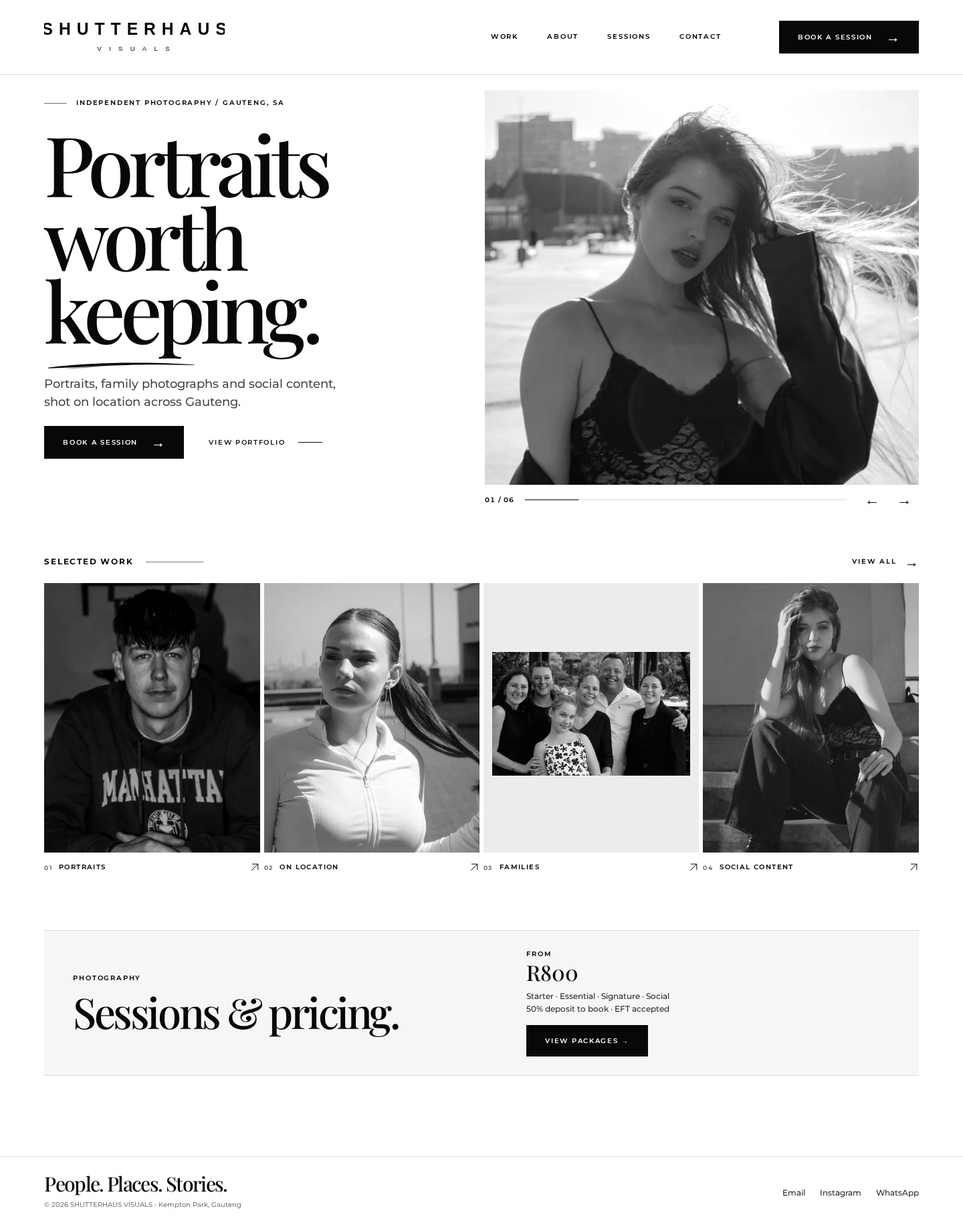
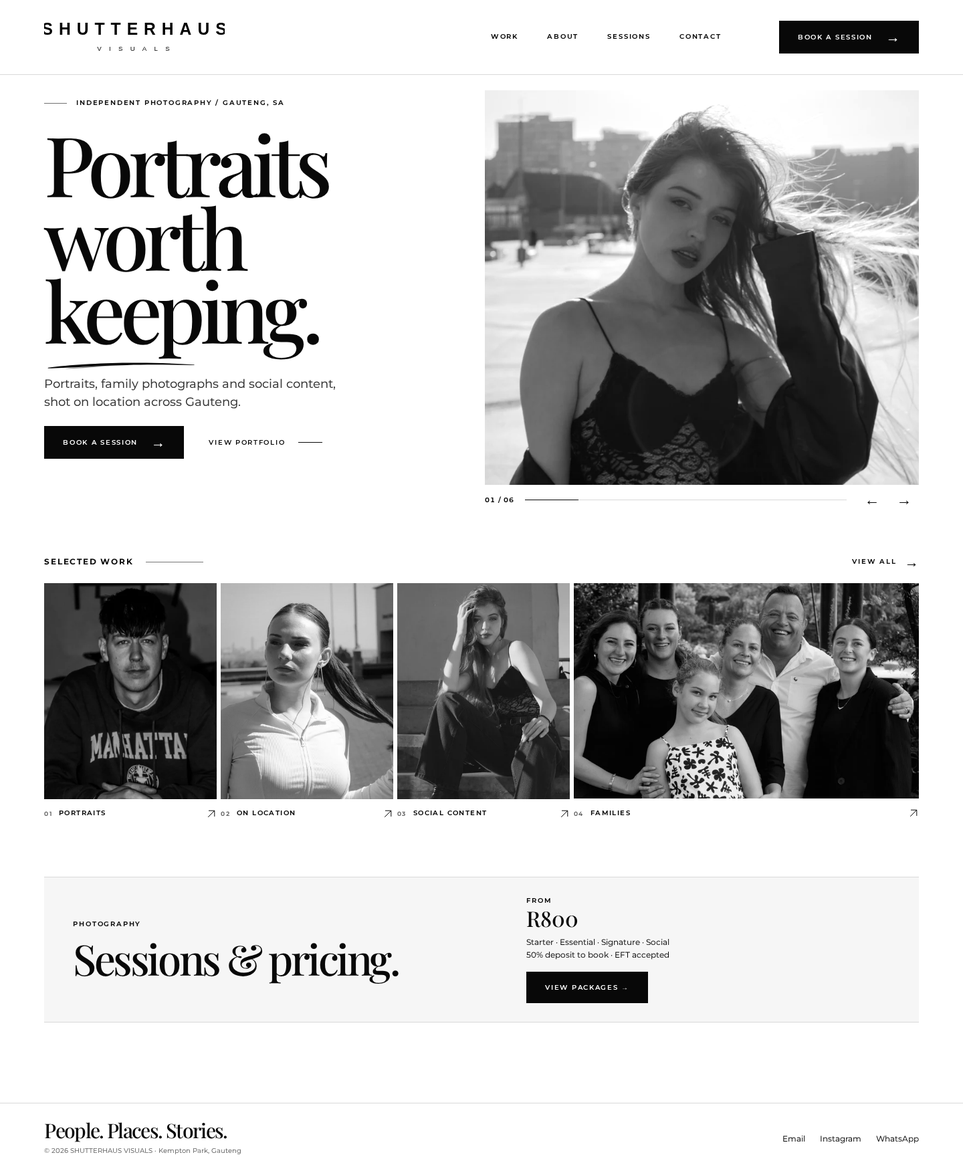
Finish Selected Work with the full family photograph and add the Landscapes collection

diff --git a/portfolio.html b/portfolio.html
@@ -194,18 +194,21 @@
       <p class="phead__p">Portraits, families and creative work, photographed on location across Gauteng.</p>
     </header>
     <nav class="work-index" aria-label="Browse work by collection"><a class="work-tile" data-collection="portraits" href="./portfolio.html?collection=portraits#edit-portraits" style="--focal:50% 2.5%">
-      <figure class="work-tile__photo"><picture><source type="image/webp" srcset="gallery/5-img-0086-400w.webp 400w, gallery/5-img-0086-560w.webp 560w, gallery/5-img-0086-800w.webp 800w, gallery/5-img-0086-1200w.webp 1200w, gallery/5-img-0086-1600w.webp 1600w" sizes="(max-width: 759px) 46vw, (max-width: 1536px) 24vw, 350px" />
-        <source type="image/jpeg" srcset="gallery/5-img-0086-400w.jpg 400w, gallery/5-img-0086-560w.jpg 560w, gallery/5-img-0086-800w.jpg 800w, gallery/5-img-0086-1200w.jpg 1200w, gallery/5-img-0086-1600w.jpg 1600w" sizes="(max-width: 759px) 46vw, (max-width: 1536px) 24vw, 350px" /><img src="gallery/5-img-0086-1600w.webp" alt="A seated man in a Manhattan sweatshirt looks into the camera, hands clasped" width="1600" height="2400" loading="eager" decoding="async" /></picture></figure>
+      <figure class="work-tile__photo"><picture><source type="image/webp" srcset="gallery/5-img-0086-400w.webp 400w, gallery/5-img-0086-560w.webp 560w, gallery/5-img-0086-800w.webp 800w, gallery/5-img-0086-1200w.webp 1200w, gallery/5-img-0086-1600w.webp 1600w" sizes="(max-width: 759px) 46vw, (max-width: 1536px) 20vw, 280px" />
+        <source type="image/jpeg" srcset="gallery/5-img-0086-400w.jpg 400w, gallery/5-img-0086-560w.jpg 560w, gallery/5-img-0086-800w.jpg 800w, gallery/5-img-0086-1200w.jpg 1200w, gallery/5-img-0086-1600w.jpg 1600w" sizes="(max-width: 759px) 46vw, (max-width: 1536px) 20vw, 280px" /><img src="gallery/5-img-0086-1600w.webp" alt="A seated man in a Manhattan sweatshirt looks into the camera, hands clasped" width="1600" height="2400" loading="eager" decoding="async" /></picture></figure>
       <span class="image-label"><small>01</small>Portraits</span></a><a class="work-tile" data-collection="on-location" href="./portfolio.html?collection=on-location#edit-on-location" style="--focal:50% 64%">
-      <figure class="work-tile__photo"><picture><source type="image/webp" srcset="gallery/2-20240718114526-img-0124-400w.webp 400w, gallery/2-20240718114526-img-0124-560w.webp 560w, gallery/2-20240718114526-img-0124-800w.webp 800w, gallery/2-20240718114526-img-0124-1200w.webp 1200w, gallery/2-20240718114526-img-0124-1600w.webp 1600w" sizes="(max-width: 759px) 46vw, (max-width: 1536px) 24vw, 350px" />
-        <source type="image/jpeg" srcset="gallery/2-20240718114526-img-0124-400w.jpg 400w, gallery/2-20240718114526-img-0124-560w.jpg 560w, gallery/2-20240718114526-img-0124-800w.jpg 800w, gallery/2-20240718114526-img-0124-1200w.jpg 1200w, gallery/2-20240718114526-img-0124-1600w.jpg 1600w" sizes="(max-width: 759px) 46vw, (max-width: 1536px) 24vw, 350px" /><img src="gallery/2-20240718114526-img-0124-1600w.webp" alt="Portrait of a woman in a white top outdoors, hair pulled back, in bright light" width="1600" height="2400" loading="lazy" decoding="async" /></picture></figure>
-      <span class="image-label"><small>02</small>On location</span></a><a class="work-tile" data-collection="families" href="./portfolio.html?collection=families#edit-families" style="--focal:50% 0%" data-mounted>
-      <figure class="work-tile__photo"><picture><source type="image/webp" srcset="gallery/54-img-0164-400w.webp 400w, gallery/54-img-0164-560w.webp 560w, gallery/54-img-0164-800w.webp 800w, gallery/54-img-0164-1200w.webp 1200w, gallery/54-img-0164-1600w.webp 1600w" sizes="(max-width: 759px) 46vw, (max-width: 1536px) 24vw, 350px" />
-        <source type="image/jpeg" srcset="gallery/54-img-0164-400w.jpg 400w, gallery/54-img-0164-560w.jpg 560w, gallery/54-img-0164-800w.jpg 800w, gallery/54-img-0164-1200w.jpg 1200w, gallery/54-img-0164-1600w.jpg 1600w" sizes="(max-width: 759px) 46vw, (max-width: 1536px) 24vw, 350px" /><img src="gallery/54-img-0164-1600w.webp" alt="Family portrait of six people outdoors, laughing together on a path" width="2400" height="1499" loading="lazy" decoding="async" /></picture></figure>
-      <span class="image-label"><small>03</small>Families</span></a><a class="work-tile" data-collection="social" href="./portfolio.html?collection=social#edit-social" style="--focal:50% 0%">
-      <figure class="work-tile__photo"><picture><source type="image/webp" srcset="gallery/20-img-0202-400w.webp 400w, gallery/20-img-0202-560w.webp 560w, gallery/20-img-0202-800w.webp 800w, gallery/20-img-0202-1200w.webp 1200w" sizes="(max-width: 759px) 46vw, (max-width: 1536px) 24vw, 350px" />
-        <source type="image/jpeg" srcset="gallery/20-img-0202-400w.jpg 400w, gallery/20-img-0202-560w.jpg 560w, gallery/20-img-0202-800w.jpg 800w, gallery/20-img-0202-1200w.jpg 1200w" sizes="(max-width: 759px) 46vw, (max-width: 1536px) 24vw, 350px" /><img src="gallery/20-img-0202-1200w.webp" alt="A woman in black seated on sunlit outdoor steps with her hand in her hair" width="1350" height="2400" loading="lazy" decoding="async" /></picture></figure>
-      <span class="image-label"><small>04</small>Social content</span></a></nav>
+      <figure class="work-tile__photo"><picture><source type="image/webp" srcset="gallery/2-20240718114526-img-0124-400w.webp 400w, gallery/2-20240718114526-img-0124-560w.webp 560w, gallery/2-20240718114526-img-0124-800w.webp 800w, gallery/2-20240718114526-img-0124-1200w.webp 1200w, gallery/2-20240718114526-img-0124-1600w.webp 1600w" sizes="(max-width: 759px) 46vw, (max-width: 1536px) 20vw, 280px" />
+        <source type="image/jpeg" srcset="gallery/2-20240718114526-img-0124-400w.jpg 400w, gallery/2-20240718114526-img-0124-560w.jpg 560w, gallery/2-20240718114526-img-0124-800w.jpg 800w, gallery/2-20240718114526-img-0124-1200w.jpg 1200w, gallery/2-20240718114526-img-0124-1600w.jpg 1600w" sizes="(max-width: 759px) 46vw, (max-width: 1536px) 20vw, 280px" /><img src="gallery/2-20240718114526-img-0124-1600w.webp" alt="Portrait of a woman in a white top outdoors, hair pulled back, in bright light" width="1600" height="2400" loading="lazy" decoding="async" /></picture></figure>
+      <span class="image-label"><small>02</small>On location</span></a><a class="work-tile" data-collection="social" href="./portfolio.html?collection=social#edit-social" style="--focal:50% 0%">
+      <figure class="work-tile__photo"><picture><source type="image/webp" srcset="gallery/20-img-0202-400w.webp 400w, gallery/20-img-0202-560w.webp 560w, gallery/20-img-0202-800w.webp 800w, gallery/20-img-0202-1200w.webp 1200w" sizes="(max-width: 759px) 46vw, (max-width: 1536px) 20vw, 280px" />
+        <source type="image/jpeg" srcset="gallery/20-img-0202-400w.jpg 400w, gallery/20-img-0202-560w.jpg 560w, gallery/20-img-0202-800w.jpg 800w, gallery/20-img-0202-1200w.jpg 1200w" sizes="(max-width: 759px) 46vw, (max-width: 1536px) 20vw, 280px" /><img src="gallery/20-img-0202-1200w.webp" alt="A woman in black seated on sunlit outdoor steps with her hand in her hair" width="1350" height="2400" loading="lazy" decoding="async" /></picture></figure>
+      <span class="image-label"><small>03</small>Social content</span></a><a class="work-tile" data-collection="landscapes" href="./portfolio.html?collection=landscapes#edit-landscapes" style="--frame-ratio:2400/1500;--focal:50% 50%" data-full-frame>
+      <figure class="work-tile__photo"><picture><source type="image/webp" srcset="gallery/6-img-0161-400w.webp 400w, gallery/6-img-0161-560w.webp 560w, gallery/6-img-0161-800w.webp 800w, gallery/6-img-0161-1200w.webp 1200w, gallery/6-img-0161-1600w.webp 1600w" sizes="(max-width: 759px) 92vw, 30vw" />
+        <source type="image/jpeg" srcset="gallery/6-img-0161-400w.jpg 400w, gallery/6-img-0161-560w.jpg 560w, gallery/6-img-0161-800w.jpg 800w, gallery/6-img-0161-1200w.jpg 1200w, gallery/6-img-0161-1600w.jpg 1600w" sizes="(max-width: 759px) 92vw, 30vw" /><img src="gallery/6-img-0161-1600w.webp" alt="Sun setting over the sea, orange light on the horizon" width="2400" height="1500" loading="lazy" decoding="async" /></picture></figure>
+      <span class="image-label"><small>04</small>Landscapes</span></a><a class="work-tile" data-collection="families" href="./portfolio.html?collection=families#edit-families" style="--frame-ratio:2400/1499;--focal:50% 0%" data-full-frame>
+      <figure class="work-tile__photo"><picture><source type="image/webp" srcset="gallery/54-img-0164-400w.webp 400w, gallery/54-img-0164-560w.webp 560w, gallery/54-img-0164-800w.webp 800w, gallery/54-img-0164-1200w.webp 1200w, gallery/54-img-0164-1600w.webp 1600w" sizes="(max-width: 759px) 92vw, 30vw" />
+        <source type="image/jpeg" srcset="gallery/54-img-0164-400w.jpg 400w, gallery/54-img-0164-560w.jpg 560w, gallery/54-img-0164-800w.jpg 800w, gallery/54-img-0164-1200w.jpg 1200w, gallery/54-img-0164-1600w.jpg 1600w" sizes="(max-width: 759px) 92vw, 30vw" /><img src="gallery/54-img-0164-1600w.webp" alt="Family portrait of six people outdoors, laughing together on a path" width="2400" height="1499" loading="lazy" decoding="async" /></picture></figure>
+      <span class="image-label"><small>05</small>Families</span></a></nav>
     <noscript>
     <section class="native-edit" id="edit-portraits">
       <header class="section-label"><h2>Portraits</h2><a href="./portfolio.html">All work</a></header>
@@ -255,15 +258,23 @@
         <source type="image/jpeg" srcset="gallery/37-img-0124-400w.jpg 400w, gallery/37-img-0124-560w.jpg 560w, gallery/37-img-0124-800w.jpg 800w, gallery/37-img-0124-1200w.jpg 1200w, gallery/37-img-0124-1600w.jpg 1600w" sizes="(max-width: 759px) 92vw, 24vw" /><img src="gallery/37-img-0124-1600w.webp" alt="Black and white portrait of a woman resting her chin on her hand" width="1600" height="2400" loading="lazy" decoding="async" /></picture></figure></a><a href="gallery/14-img-0026.jpg"><figure class="native-edit__frame"><picture><source type="image/webp" srcset="gallery/14-img-0026-400w.webp 400w, gallery/14-img-0026-560w.webp 560w, gallery/14-img-0026-800w.webp 800w, gallery/14-img-0026-1200w.webp 1200w, gallery/14-img-0026-1600w.webp 1600w" sizes="(max-width: 759px) 92vw, 24vw" />
         <source type="image/jpeg" srcset="gallery/14-img-0026-400w.jpg 400w, gallery/14-img-0026-560w.jpg 560w, gallery/14-img-0026-800w.jpg 800w, gallery/14-img-0026-1200w.jpg 1200w, gallery/14-img-0026-1600w.jpg 1600w" sizes="(max-width: 759px) 92vw, 24vw" /><img src="gallery/14-img-0026-1600w.webp" alt="Black and white portrait of a woman with a hand in her hair" width="1600" height="2400" loading="lazy" decoding="async" /></picture></figure></a></div>
     </section>
-    <section class="native-edit" id="edit-families">
-      <header class="section-label"><h2>Families</h2><a href="./portfolio.html">All work</a></header>
-      <div class="native-edit__photos"><a href="gallery/54-img-0164.jpg"><figure class="native-edit__frame"><picture><source type="image/webp" srcset="gallery/54-img-0164-400w.webp 400w, gallery/54-img-0164-560w.webp 560w, gallery/54-img-0164-800w.webp 800w, gallery/54-img-0164-1200w.webp 1200w, gallery/54-img-0164-1600w.webp 1600w" sizes="(max-width: 759px) 92vw, 24vw" />
-        <source type="image/jpeg" srcset="gallery/54-img-0164-400w.jpg 400w, gallery/54-img-0164-560w.jpg 560w, gallery/54-img-0164-800w.jpg 800w, gallery/54-img-0164-1200w.jpg 1200w, gallery/54-img-0164-1600w.jpg 1600w" sizes="(max-width: 759px) 92vw, 24vw" /><img src="gallery/54-img-0164-1600w.webp" alt="Family portrait of six people outdoors, laughing together on a path" width="2400" height="1499" loading="lazy" decoding="async" /></picture></figure></a></div>
-    </section>
     <section class="native-edit" id="edit-social">
       <header class="section-label"><h2>Social content</h2><a href="./portfolio.html">All work</a></header>
       <div class="native-edit__photos"><a href="gallery/20-img-0202.jpg"><figure class="native-edit__frame"><picture><source type="image/webp" srcset="gallery/20-img-0202-400w.webp 400w, gallery/20-img-0202-560w.webp 560w, gallery/20-img-0202-800w.webp 800w, gallery/20-img-0202-1200w.webp 1200w" sizes="(max-width: 759px) 92vw, 24vw" />
         <source type="image/jpeg" srcset="gallery/20-img-0202-400w.jpg 400w, gallery/20-img-0202-560w.jpg 560w, gallery/20-img-0202-800w.jpg 800w, gallery/20-img-0202-1200w.jpg 1200w" sizes="(max-width: 759px) 92vw, 24vw" /><img src="gallery/20-img-0202-1200w.webp" alt="A woman in black seated on sunlit outdoor steps with her hand in her hair" width="1350" height="2400" loading="lazy" decoding="async" /></picture></figure></a></div>
+    </section>
+    <section class="native-edit" id="edit-landscapes">
+      <header class="section-label"><h2>Landscapes</h2><a href="./portfolio.html">All work</a></header>
+      <div class="native-edit__photos"><a href="gallery/6-img-0161.jpg"><figure class="native-edit__frame"><picture><source type="image/webp" srcset="gallery/6-img-0161-400w.webp 400w, gallery/6-img-0161-560w.webp 560w, gallery/6-img-0161-800w.webp 800w, gallery/6-img-0161-1200w.webp 1200w, gallery/6-img-0161-1600w.webp 1600w" sizes="(max-width: 759px) 92vw, 24vw" />
+        <source type="image/jpeg" srcset="gallery/6-img-0161-400w.jpg 400w, gallery/6-img-0161-560w.jpg 560w, gallery/6-img-0161-800w.jpg 800w, gallery/6-img-0161-1200w.jpg 1200w, gallery/6-img-0161-1600w.jpg 1600w" sizes="(max-width: 759px) 92vw, 24vw" /><img src="gallery/6-img-0161-1600w.webp" alt="Sun setting over the sea, orange light on the horizon" width="2400" height="1500" loading="lazy" decoding="async" /></picture></figure></a><a href="gallery/7-img-0207.jpg"><figure class="native-edit__frame"><picture><source type="image/webp" srcset="gallery/7-img-0207-400w.webp 400w, gallery/7-img-0207-560w.webp 560w, gallery/7-img-0207-800w.webp 800w, gallery/7-img-0207-1200w.webp 1200w, gallery/7-img-0207-1600w.webp 1600w" sizes="(max-width: 759px) 92vw, 24vw" />
+        <source type="image/jpeg" srcset="gallery/7-img-0207-400w.jpg 400w, gallery/7-img-0207-560w.jpg 560w, gallery/7-img-0207-800w.jpg 800w, gallery/7-img-0207-1200w.jpg 1200w, gallery/7-img-0207-1600w.jpg 1600w" sizes="(max-width: 759px) 92vw, 24vw" /><img src="gallery/7-img-0207-1600w.webp" alt="A city skyline across the water at dusk" width="2400" height="1500" loading="lazy" decoding="async" /></picture></figure></a><a href="gallery/8-img-0268.jpg"><figure class="native-edit__frame"><picture><source type="image/webp" srcset="gallery/8-img-0268-400w.webp 400w, gallery/8-img-0268-560w.webp 560w, gallery/8-img-0268-800w.webp 800w, gallery/8-img-0268-1200w.webp 1200w, gallery/8-img-0268-1600w.webp 1600w" sizes="(max-width: 759px) 92vw, 24vw" />
+        <source type="image/jpeg" srcset="gallery/8-img-0268-400w.jpg 400w, gallery/8-img-0268-560w.jpg 560w, gallery/8-img-0268-800w.jpg 800w, gallery/8-img-0268-1200w.jpg 1200w, gallery/8-img-0268-1600w.jpg 1600w" sizes="(max-width: 759px) 92vw, 24vw" /><img src="gallery/8-img-0268-1600w.webp" alt="Blue ocean waves breaking close to shore" width="2400" height="1801" loading="lazy" decoding="async" /></picture></figure></a><a href="gallery/9-img-0269.jpg"><figure class="native-edit__frame"><picture><source type="image/webp" srcset="gallery/9-img-0269-400w.webp 400w, gallery/9-img-0269-560w.webp 560w, gallery/9-img-0269-800w.webp 800w, gallery/9-img-0269-1200w.webp 1200w, gallery/9-img-0269-1600w.webp 1600w" sizes="(max-width: 759px) 92vw, 24vw" />
+        <source type="image/jpeg" srcset="gallery/9-img-0269-400w.jpg 400w, gallery/9-img-0269-560w.jpg 560w, gallery/9-img-0269-800w.jpg 800w, gallery/9-img-0269-1200w.jpg 1200w, gallery/9-img-0269-1600w.jpg 1600w" sizes="(max-width: 759px) 92vw, 24vw" /><img src="gallery/9-img-0269-1600w.webp" alt="Masts of boats in a harbour under a flat grey sky" width="1736" height="2170" loading="lazy" decoding="async" /></picture></figure></a></div>
+    </section>
+    <section class="native-edit" id="edit-families">
+      <header class="section-label"><h2>Families</h2><a href="./portfolio.html">All work</a></header>
+      <div class="native-edit__photos"><a href="gallery/54-img-0164.jpg"><figure class="native-edit__frame"><picture><source type="image/webp" srcset="gallery/54-img-0164-400w.webp 400w, gallery/54-img-0164-560w.webp 560w, gallery/54-img-0164-800w.webp 800w, gallery/54-img-0164-1200w.webp 1200w, gallery/54-img-0164-1600w.webp 1600w" sizes="(max-width: 759px) 92vw, 24vw" />
+        <source type="image/jpeg" srcset="gallery/54-img-0164-400w.jpg 400w, gallery/54-img-0164-560w.jpg 560w, gallery/54-img-0164-800w.jpg 800w, gallery/54-img-0164-1200w.jpg 1200w, gallery/54-img-0164-1600w.jpg 1600w" sizes="(max-width: 759px) 92vw, 24vw" /><img src="gallery/54-img-0164-1600w.webp" alt="Family portrait of six people outdoors, laughing together on a path" width="2400" height="1499" loading="lazy" decoding="async" /></picture></figure></a></div>
     </section></noscript>
     <div class="section-label"><h2>All photographs</h2><span>30 photographs</span></div>
     <div class="pf-rows" style="--pf-cols:3"><div class="pf-col"><button class="photo-trigger pf-cell" type="button" role="button" data-photo-id="c47"

diff --git a/index.html b/index.html
@@ -186,11 +186,11 @@
         <source type="image/jpeg" srcset="gallery/5-img-0086-400w.jpg 400w, gallery/5-img-0086-560w.jpg 560w, gallery/5-img-0086-800w.jpg 800w, gallery/5-img-0086-1200w.jpg 1200w, gallery/5-img-0086-1600w.jpg 1600w" sizes="(max-width: 759px) 92vw, (max-width: 1536px) 47vw, 685px" /><img src="gallery/5-img-0086-1600w.jpg" alt="A seated man in a Manhattan sweatshirt looks into the camera, hands clasped"
       width="1600" height="2400" decoding="async" loading="eager" fetchpriority="high" /></picture></template><template data-slide="c47"><picture class="hero-photo" style="--focal:50% 29%"><source type="image/webp" srcset="gallery/2-20240718114526-img-0124-400w.webp 400w, gallery/2-20240718114526-img-0124-560w.webp 560w, gallery/2-20240718114526-img-0124-800w.webp 800w, gallery/2-20240718114526-img-0124-1200w.webp 1200w, gallery/2-20240718114526-img-0124-1600w.webp 1600w" sizes="(max-width: 759px) 92vw, (max-width: 1536px) 47vw, 685px" />
         <source type="image/jpeg" srcset="gallery/2-20240718114526-img-0124-400w.jpg 400w, gallery/2-20240718114526-img-0124-560w.jpg 560w, gallery/2-20240718114526-img-0124-800w.jpg 800w, gallery/2-20240718114526-img-0124-1200w.jpg 1200w, gallery/2-20240718114526-img-0124-1600w.jpg 1600w" sizes="(max-width: 759px) 92vw, (max-width: 1536px) 47vw, 685px" /><img src="gallery/2-20240718114526-img-0124-1600w.jpg" alt="Portrait of a woman in a white top outdoors, hair pulled back, in bright light"
-      width="1600" height="2400" decoding="async" loading="eager" fetchpriority="high" /></picture></template><template data-slide="c16"><picture class="hero-photo--full" style="--focal:50% 0%"><source type="image/webp" srcset="gallery/54-img-0164-400w.webp 400w, gallery/54-img-0164-560w.webp 560w, gallery/54-img-0164-800w.webp 800w, gallery/54-img-0164-1200w.webp 1200w, gallery/54-img-0164-1600w.webp 1600w" sizes="(max-width: 759px) 92vw, (max-width: 1536px) 47vw, 685px" />
-        <source type="image/jpeg" srcset="gallery/54-img-0164-400w.jpg 400w, gallery/54-img-0164-560w.jpg 560w, gallery/54-img-0164-800w.jpg 800w, gallery/54-img-0164-1200w.jpg 1200w, gallery/54-img-0164-1600w.jpg 1600w" sizes="(max-width: 759px) 92vw, (max-width: 1536px) 47vw, 685px" /><img src="gallery/54-img-0164-1600w.jpg" alt="Family portrait of six people outdoors, laughing together on a path"
-      width="2400" height="1499" decoding="async" loading="eager" fetchpriority="high" /></picture></template><template data-slide="c1"><picture class="hero-photo" style="--focal:50% 0%"><source type="image/webp" srcset="gallery/20-img-0202-400w.webp 400w, gallery/20-img-0202-560w.webp 560w, gallery/20-img-0202-800w.webp 800w, gallery/20-img-0202-1200w.webp 1200w" sizes="(max-width: 759px) 92vw, (max-width: 1536px) 47vw, 685px" />
+      width="1600" height="2400" decoding="async" loading="eager" fetchpriority="high" /></picture></template><template data-slide="c1"><picture class="hero-photo" style="--focal:50% 0%"><source type="image/webp" srcset="gallery/20-img-0202-400w.webp 400w, gallery/20-img-0202-560w.webp 560w, gallery/20-img-0202-800w.webp 800w, gallery/20-img-0202-1200w.webp 1200w" sizes="(max-width: 759px) 92vw, (max-width: 1536px) 47vw, 685px" />
         <source type="image/jpeg" srcset="gallery/20-img-0202-400w.jpg 400w, gallery/20-img-0202-560w.jpg 560w, gallery/20-img-0202-800w.jpg 800w, gallery/20-img-0202-1200w.jpg 1200w" sizes="(max-width: 759px) 92vw, (max-width: 1536px) 47vw, 685px" /><img src="gallery/20-img-0202-1200w.jpg" alt="A woman in black seated on sunlit outdoor steps with her hand in her hair"
-      width="1350" height="2400" decoding="async" loading="eager" fetchpriority="high" /></picture></template><template data-slide="c44"><picture class="hero-photo" style="--focal:50% 20%"><source type="image/webp" srcset="gallery/18-img-0043-400w.webp 400w, gallery/18-img-0043-560w.webp 560w, gallery/18-img-0043-800w.webp 800w, gallery/18-img-0043-1200w.webp 1200w, gallery/18-img-0043-1600w.webp 1600w" sizes="(max-width: 759px) 92vw, (max-width: 1536px) 47vw, 685px" />
+      width="1350" height="2400" decoding="async" loading="eager" fetchpriority="high" /></picture></template><template data-slide="c16"><picture class="hero-photo--full" style="--focal:50% 0%"><source type="image/webp" srcset="gallery/54-img-0164-400w.webp 400w, gallery/54-img-0164-560w.webp 560w, gallery/54-img-0164-800w.webp 800w, gallery/54-img-0164-1200w.webp 1200w, gallery/54-img-0164-1600w.webp 1600w" sizes="(max-width: 759px) 92vw, (max-width: 1536px) 47vw, 685px" />
+        <source type="image/jpeg" srcset="gallery/54-img-0164-400w.jpg 400w, gallery/54-img-0164-560w.jpg 560w, gallery/54-img-0164-800w.jpg 800w, gallery/54-img-0164-1200w.jpg 1200w, gallery/54-img-0164-1600w.jpg 1600w" sizes="(max-width: 759px) 92vw, (max-width: 1536px) 47vw, 685px" /><img src="gallery/54-img-0164-1600w.jpg" alt="Family portrait of six people outdoors, laughing together on a path"
+      width="2400" height="1499" decoding="async" loading="eager" fetchpriority="high" /></picture></template><template data-slide="c44"><picture class="hero-photo" style="--focal:50% 20%"><source type="image/webp" srcset="gallery/18-img-0043-400w.webp 400w, gallery/18-img-0043-560w.webp 560w, gallery/18-img-0043-800w.webp 800w, gallery/18-img-0043-1200w.webp 1200w, gallery/18-img-0043-1600w.webp 1600w" sizes="(max-width: 759px) 92vw, (max-width: 1536px) 47vw, 685px" />
         <source type="image/jpeg" srcset="gallery/18-img-0043-400w.jpg 400w, gallery/18-img-0043-560w.jpg 560w, gallery/18-img-0043-800w.jpg 800w, gallery/18-img-0043-1200w.jpg 1200w, gallery/18-img-0043-1600w.jpg 1600w" sizes="(max-width: 759px) 92vw, (max-width: 1536px) 47vw, 685px" /><img src="gallery/18-img-0043-1600w.jpg" alt="Black and white portrait of a woman outdoors, looking down"
       width="1600" height="2400" decoding="async" loading="eager" fetchpriority="high" /></picture></template></div>
       <div class="hero__info"><p class="hero__lede">Portraits, family photographs and social content, shot on location across Gauteng.</p>
@@ -225,19 +225,6 @@
     </span></button>
       <a class="work-caption" href="./portfolio.html?collection=on-location#edit-on-location"><small aria-hidden="true">02</small>On location<svg width="16" height="16" viewBox="0 0 20 20" fill="none" aria-hidden="true"><path d="M4 16 16 4M5 4h11v11" stroke="currentColor" stroke-width="1.25"/></svg></a>
     </div><div class="hstrip__entry">
-      <button type="button" class="photo-trigger hstrip__item" data-cover="families" style="--focal:50% 0%" data-mounted role="button" aria-label="Enlarge Family portrait of six people outdoors, laughing together on a path">
-        <span class="cell">
-      <picture><source type="image/webp" srcset="gallery/54-img-0164-400w.webp 400w, gallery/54-img-0164-560w.webp 560w, gallery/54-img-0164-800w.webp 800w, gallery/54-img-0164-1200w.webp 1200w, gallery/54-img-0164-1600w.webp 1600w" sizes="(max-width: 759px) 46vw, (max-width: 1536px) 24vw, 350px" />
-        <source type="image/jpeg" srcset="gallery/54-img-0164-400w.jpg 400w, gallery/54-img-0164-560w.jpg 560w, gallery/54-img-0164-800w.jpg 800w, gallery/54-img-0164-1200w.jpg 1200w, gallery/54-img-0164-1600w.jpg 1600w" sizes="(max-width: 759px) 46vw, (max-width: 1536px) 24vw, 350px" />
-        <img src="gallery/54-img-0164-400w.jpg" alt="Family portrait of six people outdoors, laughing together on a path"
-             loading="lazy" decoding="async" style="aspect-ratio:2400/1499"
-             data-full="gallery/54-img-0164.jpg" data-alt="Family portrait of six people outdoors, laughing together on a path"
-             data-cat="portrait"
-             data-filename="54-img-0164.jpg" />
-      </picture>
-    </span></button>
-      <a class="work-caption" href="./portfolio.html?collection=families#edit-families"><small aria-hidden="true">03</small>Families<svg width="16" height="16" viewBox="0 0 20 20" fill="none" aria-hidden="true"><path d="M4 16 16 4M5 4h11v11" stroke="currentColor" stroke-width="1.25"/></svg></a>
-    </div><div class="hstrip__entry">
       <button type="button" class="photo-trigger hstrip__item" data-cover="social" style="--focal:50% 0%" role="button" aria-label="Enlarge A woman in black seated on sunlit outdoor steps with her hand in her hair">
         <span class="cell">
       <picture><source type="image/webp" srcset="gallery/20-img-0202-400w.webp 400w, gallery/20-img-0202-560w.webp 560w, gallery/20-img-0202-800w.webp 800w, gallery/20-img-0202-1200w.webp 1200w" sizes="(max-width: 759px) 46vw, (max-width: 1536px) 24vw, 350px" />
@@ -249,7 +236,20 @@
              data-filename="20-img-0202.jpg" />
       </picture>
     </span></button>
-      <a class="work-caption" href="./portfolio.html?collection=social#edit-social"><small aria-hidden="true">04</small>Social content<svg width="16" height="16" viewBox="0 0 20 20" fill="none" aria-hidden="true"><path d="M4 16 16 4M5 4h11v11" stroke="currentColor" stroke-width="1.25"/></svg></a>
+      <a class="work-caption" href="./portfolio.html?collection=social#edit-social"><small aria-hidden="true">03</small>Social content<svg width="16" height="16" viewBox="0 0 20 20" fill="none" aria-hidden="true"><path d="M4 16 16 4M5 4h11v11" stroke="currentColor" stroke-width="1.25"/></svg></a>
+    </div><div class="hstrip__entry">
+      <button type="button" class="photo-trigger hstrip__item" data-cover="families" style="--frame-ratio:2400/1499;--focal:50% 0%" data-full-frame role="button" aria-label="Enlarge Family portrait of six people outdoors, laughing together on a path">
+        <span class="cell">
+      <picture><source type="image/webp" srcset="gallery/54-img-0164-400w.webp 400w, gallery/54-img-0164-560w.webp 560w, gallery/54-img-0164-800w.webp 800w, gallery/54-img-0164-1200w.webp 1200w, gallery/54-img-0164-1600w.webp 1600w" sizes="(max-width: 759px) 92vw, 40vw" />
+        <source type="image/jpeg" srcset="gallery/54-img-0164-400w.jpg 400w, gallery/54-img-0164-560w.jpg 560w, gallery/54-img-0164-800w.jpg 800w, gallery/54-img-0164-1200w.jpg 1200w, gallery/54-img-0164-1600w.jpg 1600w" sizes="(max-width: 759px) 92vw, 40vw" />
+        <img src="gallery/54-img-0164-400w.jpg" alt="Family portrait of six people outdoors, laughing together on a path"
+             loading="lazy" decoding="async" style="aspect-ratio:2400/1499"
+             data-full="gallery/54-img-0164.jpg" data-alt="Family portrait of six people outdoors, laughing together on a path"
+             data-cat="portrait"
+             data-filename="54-img-0164.jpg" />
+      </picture>
+    </span></button>
+      <a class="work-caption" href="./portfolio.html?collection=families#edit-families"><small aria-hidden="true">04</small>Families<svg width="16" height="16" viewBox="0 0 20 20" fill="none" aria-hidden="true"><path d="M4 16 16 4M5 4h11v11" stroke="currentColor" stroke-width="1.25"/></svg></a>
     </div></div>
     </section>
     <section class="hcta">

diff --git a/src/pages.ts b/src/pages.ts
@@ -472,8 +472,9 @@ function selectedCoverSizes(columns: number): string {
 function selectedCoverAttributes(photo: Photo, edit?: WorkEdit): string {
   const pinned = WORK_EDITS.find(choice => choice.cover && choice.cover === photo.filename);
   const focal = pinned && "portraitPosition" in pinned ? pinned.portraitPosition : pinned?.position ?? "50% 25%";
-  const mountGroup = edit?.key === "families" && (!photo.width || !photo.height || photo.width > photo.height);
-  return `style="--focal:${focal}"${mountGroup ? " data-mounted" : ""}`;
+  const natural = edit?.key === "families" || edit?.key === "landscapes";
+  const ratio = natural && photo.width && photo.height ? `--frame-ratio:${photo.width}/${photo.height};` : "";
+  return `style="${ratio}--focal:${focal}"${natural ? " data-full-frame" : ""}`;
 }
 
 export function portfolioPage(photos: Photo[], expanded = false, collection: string | null = null): string {
@@ -540,7 +541,8 @@ export function portfolioPage(photos: Photo[], expanded = false, collection: str
 
     const activeEdit = WORK_EDITS.find(edit => edit.key === collection);
     const editFrames = (edit: typeof WORK_EDITS[number]) => {
-      const frames = ordered.filter(photo => photo.visible && belongsToEdit(photo, edit));
+      const source = edit.key === "landscapes" ? photos : ordered;
+      const frames = source.filter(photo => photo.visible && belongsToEdit(photo, edit));
       const cover = editCover(edit, ordered, photos);
       return cover && !frames.some(photo => photo.id === cover.id) ? [cover, ...frames] : frames;
     };
@@ -576,7 +578,7 @@ export function portfolioPage(photos: Photo[], expanded = false, collection: str
     const p = editCover(edit, ordered, photos);
     if (!p) return "";
     return `<a class="work-tile" data-collection="${edit.key}" href="${collectionLink(edit)}" ${selectedCoverAttributes(p, edit)}>
-      ${editorialFigure(p, "work-tile__photo", i === 0, selectedCoverSizes(WORK_EDITS.length))}
+      ${editorialFigure(p, "work-tile__photo", i === 0, (edit.key === "families" || edit.key === "landscapes") ? "(max-width: 759px) 92vw, 30vw" : selectedCoverSizes(WORK_EDITS.length))}
       <span class="image-label"><small>${String(i + 1).padStart(2, "0")}</small>${edit.label}</span></a>`;
   }).join("");
   // Static hosting cannot filter a query on the server. Fragment targets expose
@@ -724,13 +726,13 @@ export function homePage(photos: Photo[], _cols: number): string {
       <button type="button" data-step="1" aria-label="Next featured photograph"><span aria-hidden="true">→</span></button>
     </div><p class="hero__notice" role="status"></p>${slides.map(p => `<template data-slide="${escapeHtml(p.id)}">${coverPicture(p)}</template>`).join("")}` : "";
 
-  const selectedWork = strip.map((photo, index) => {
+  const selectedWork = [...strip].sort((a, b) => Number(frameLabel(a) === "Families") - Number(frameLabel(b) === "Families")).map((photo, index) => {
     const label = frameLabel(photo);
     const edit = WORK_EDITS.find(choice => choice.label === label);
     const title = `<small aria-hidden="true">${String(index + 1).padStart(2, "0")}</small>${escapeHtml(label)}`;
     return `<div class="hstrip__entry">
       <button type="button" class="photo-trigger hstrip__item" data-cover="${edit?.key ?? ""}" ${selectedCoverAttributes(photo, edit)} role="button" aria-label="Enlarge ${escapeHtml(photo.alt || photo.filename || "photograph")}">
-        ${figure(photo, -1, stripSizes)}</button>
+        ${figure(photo, -1, edit?.key === "families" ? "(max-width: 759px) 92vw, 40vw" : stripSizes)}</button>
       ${edit ? `<a class="work-caption" href="${collectionLink(edit)}">${title}<svg width="16" height="16" viewBox="0 0 20 20" fill="none" aria-hidden="true"><path d="M4 16 16 4M5 4h11v11" stroke="currentColor" stroke-width="1.25"/></svg></a>` : `<span class="work-caption">${title}</span>`}
     </div>`;
   }).join("");

diff --git a/src/public.css b/src/public.css
@@ -101,7 +101,7 @@ a:focus-visible, button:focus-visible, input:focus-visible, textarea:focus-visib
 .work-caption { display: flex; align-items: center; gap: 10px; min-height: 44px; padding-block: 7px; font: 650 10px/1.45 var(--font-body); color: var(--ink); letter-spacing: .14em; text-transform: uppercase; }
 .work-caption small { color: var(--grey); font-size: 9px; }
 .work-caption svg { flex: none; margin-left: auto; }
-.hstrip__item, .work-tile { position: relative; min-width: 0; overflow: hidden; aspect-ratio: 4 / 5; background: var(--wash); }
+.hstrip__item, .work-tile { position: relative; min-width: 0; overflow: hidden; aspect-ratio: var(--frame-ratio, 4 / 5); background: var(--wash); }
 .cell { display: block; overflow: hidden; background: var(--wash); }
 .cell picture, .cell img { display: block; width: 100%; height: auto; }
 .cell img { object-fit: contain; opacity: 1; filter: grayscale(1); transition: opacity .18s ease; }
@@ -109,10 +109,13 @@ a:focus-visible, button:focus-visible, input:focus-visible, textarea:focus-visib
 .hstrip__item .cell, .hstrip__item picture { filter: none; transition: none; }
 .hstrip__item img, .work-tile img { object-fit: cover; object-position: var(--focal, 50% 28%); }
 .work-tile img { filter: grayscale(1); }
-:is(.hstrip__item, .work-tile)[data-mounted] img { object-fit: contain; object-position: 50% 47%; padding-inline: 4%; background: #ececec; }
+:is(.hstrip__item, .work-tile)[data-full-frame] img { object-fit: contain; object-position: center; }
+.work-index { grid-template-columns: repeat(3, minmax(0,1fr)) repeat(2, minmax(0,2fr)); align-items: start; }
+@media (min-width: 760px) {
+  .hstrip__grid:has(> :nth-child(4):last-child [data-cover="families"]) { grid-template-columns: repeat(3, minmax(0,1fr)) minmax(0,2fr); }
+}
 .work-tile::after { content: ""; position: absolute; inset: 46% 0 0; background: linear-gradient(transparent, rgb(0 0 0 / .72)); pointer-events: none; }
-.work-tile[data-mounted]::after { content: none; }
-.work-tile[data-mounted] .image-label { color: var(--ink); }
+
 .image-label { position: absolute; z-index: 1; bottom: clamp(12px,1.5vw,24px); left: clamp(13px,1.6vw,26px); display: grid; gap: 2px; color: white; font-size: 10px; pointer-events: none; }
 .image-label small { font-size: inherit; }
 .work-tile:hover .image-label { text-decoration: underline; text-underline-offset: 4px; }
@@ -302,7 +305,13 @@ a:focus-visible, button:focus-visible, input:focus-visible, textarea:focus-visib
   .eyebrow--rule::after { flex: 1; }
   .page .work-intro h1, .page .shead h1, .page .about__h, .page .contact__h { margin: 18px 0 0; font-size: clamp(53px, 14.7vw, 84px); line-height: .94; }
   .work-intro .phead__p { display: none; }
+  .work-index, .hstrip__grid:has(> :nth-child(4):last-child [data-cover="families"]) { grid-template-columns: repeat(3,minmax(0,1fr)); }
+  .work-index [data-full-frame], .hstrip__entry:has([data-cover="families"]) { grid-column: 1 / -1; }
   .work-index { gap: 8px; margin-bottom: 28px; }
+  .work-caption { display: block; position: relative; }
+  .work-caption small { display: block; margin-bottom: 3px; }
+  .work-caption svg { position: absolute; top: 5px; right: 0; width: 12px; height: 12px; }
+  .image-label { overflow-wrap: anywhere; right: 4px; }
   .image-label { bottom: 10px; left: 10px; }
   .edit-links { gap: 6px; }
   .edit-links a { padding: 8px; letter-spacing: .1em; }

diff --git a/tests/public.spec.ts b/tests/public.spec.ts
@@ -80,7 +80,7 @@ test('featured photographs wrap and collection links open real Shutterhaus work'
  await next.click();
  await expect(figure).toHaveAttribute('data-frame', initial!);
  await expect(page.locator('[data-slide-count]')).toHaveText('01 / 06');
- for (const label of ['Portraits','On location','Families','Social content']) {
+ for (const label of ['Portraits','On location','Social content','Landscapes','Families']) {
   await page.goto('/portfolio.html');
   await page.locator('.work-tile').filter({hasText:label}).click();
   await expect(page.locator('h1')).toHaveText(label + '.');
@@ -107,9 +107,11 @@ test('a phone shows every Home pick and the complete family group', async ({page
  expect(cards).toHaveLength(4);
  expect(cards.every(card => card.x >= 0 && card.right <= 320 && card.width > 0)).toBe(true);
  expect(cards[0].y).toEqual(cards[1].y);
- expect(cards[2].y).toBeGreaterThan(cards[0].y);
+ expect(cards[2].y).toBe(cards[0].y);
+ expect(cards[3].y).toBeGreaterThan(cards[0].y);
+ await expect(strip.locator('button').last()).toHaveAttribute('data-cover','families');
  const next = page.getByRole('button', {name: 'Next featured photograph'});
- for (let i = 0; i < 3; i++) await next.click();
+ for (let i = 0; i < 4; i++) await next.click();
  const family = page.locator('.hero__fig img');
  await expect(family).toHaveAttribute('src', /54-img-0164/);
  expect(await family.evaluate(el => getComputedStyle(el).objectFit)).toBe('contain');
@@ -136,6 +138,7 @@ test('collection covers preserve the pictured faces on phones and wide screens',
  const bounds = {
   portraits: [0.28, 0.021, 0.75, 0.39],
   'on-location': [0.25, 0.20, 0.66, 0.52],
+  landscapes: [0, 0, 1, 1],
   families: [0.075, 0.06, 0.93, 0.70],
   social: [0.35, 0.025, 0.64, 0.21],
  };

diff --git a/src/work-collections.ts b/src/work-collections.ts
@@ -4,8 +4,9 @@ import type { Photo } from "./types";
 export const WORK_EDITS = [
   { key: "portraits", label: "Portraits", cover: "5-img-0086.jpg", position: "50% 2.5%" },
   { key: "on-location", label: "On location", cover: "2-20240718114526-img-0124.jpg", position: "50% 29%", portraitPosition: "50% 64%" },
-  { key: "families", label: "Families", cover: SITE.pricing.tiers.find(t => t.name === "Signature")?.photo, position: "50% 0%" },
   { key: "social", label: "Social content", cover: SITE.pricing.tiers.find(t => t.name === "Social")?.photo, position: "50% 0%" },
+  { key: "landscapes", label: "Landscapes", cover: "6-img-0161.jpg", position: "50% 50%" },
+  { key: "families", label: "Families", cover: SITE.pricing.tiers.find(t => t.name === "Signature")?.photo, position: "50% 0%" },
 ] as const;
 
 export type WorkEdit = typeof WORK_EDITS[number];
@@ -28,6 +29,7 @@ export function belongsToEdit(photo: Photo, edit: WorkEdit): boolean {
   const tags = albumTags(photo);
   switch (edit.key) {
     case "on-location": return onLocation.has(photo.filename ?? "") || tags.some(tag => ["on-location", "outdoor", "outdoors"].includes(tag));
+    case "landscapes": return tags.includes("landscape") || tags.includes("landscapes");
     case "families": return tags.some(tag => ["family", "families"].includes(tag));
     case "social": return tags.some(tag => ["social", "creative"].includes(tag));
     case "portraits": return tags.some(tag => ["portrait", "portraits"].includes(tag));

diff --git a/tests/safari-layout.spec.ts b/tests/safari-layout.spec.ts
@@ -106,12 +106,17 @@ for (const viewport of viewports) {
         }
         await frames(`${route} intro`,'.work-tile__photo,.about__fig',false);
         if (!baseline && (route === 'home' || route === 'portfolio')) {
-          const ratios = await page.locator('.hstrip__item, .work-tile').evaluateAll(tiles => tiles.map(tile => {
+          const frameErrors = await page.locator('.hstrip__item, .work-tile').evaluateAll(tiles => tiles.map(tile => {
             const {width, height} = tile.getBoundingClientRect();
-            return width / height;
+            const img = tile.querySelector("img")!;
+            // Responsive image intrinsic dimensions are rounded to whole CSS pixels.
+            const ratio = width / height;
+            return tile.hasAttribute("data-full-frame")
+              ? Math.abs(img.naturalHeight - img.naturalWidth / ratio)
+              : Math.abs(height - width * 5 / 4);
           }));
-          expect(ratios.length).toBeGreaterThan(0);
-          for (const ratio of ratios) expect(ratio, `${route} Selected Work frame`).toBeCloseTo(4 / 5, 2);
+          expect(frameErrors.length).toBeGreaterThan(0);
+          for (const error of frameErrors) expect(error, `${route} Selected Work frame in pixels`).toBeLessThanOrEqual(1.1);
         }
         if (route==='portfolio') {
           for (const index of [0,4,9]) {

diff --git a/src/config.ts b/src/config.ts
@@ -202,8 +202,8 @@ export const SITE: SiteConfig = {
   homeStrip: [
     "5-img-0086.jpg",
     "2-20240718114526-img-0124.jpg",
-    "54-img-0164.jpg",
     "20-img-0202.jpg",
+    "54-img-0164.jpg",
   ],
   // Backlit, windblown outdoor portrait. The face reads in both hero formats.
   heroPhoto: "22-img-0239.jpg",

diff --git a/src/DESIGN.md b/src/DESIGN.md
@@ -4,11 +4,11 @@ Use the desktop Home, mobile Home / Work / Contact and brand boards supplied on 
 
 ## Home and Work
 
-Desktop leads with a three-line heading at left and a 1.1:1 photograph at right. The six-frame carousel places its count, progress line and arrows below the image on all screens. Its selected frame survives a gallery refresh. The primary cover is the windblown outdoor portrait. Its focal point preserves the crown of the head on both screen shapes. Landscape group slides show the complete frame. Each selected photograph enlarges and its separate caption opens the collection. Phones show every selection in a two-column grid.
+Desktop leads with a three-line heading at left and a 1.1:1 photograph at right. The six-frame carousel places its count, progress line and arrows below the image on all screens. Its selected frame survives a gallery refresh. The primary cover is the windblown outdoor portrait. Its focal point preserves the crown of the head on both screen shapes. Landscape group slides show the complete frame. Each selected photograph enlarges and its separate caption opens the collection. On phones the three portraits sit above the full-width family photograph.
 
-Selected Work uses the same 4:5 frames on Home and Work. Four covers fit across the desktop grid, and two fit across on phones. Each pinned portrait has a focal point for this crop. A wide family group is centered on a pale grey mount so everyone fits. Work keeps its collection labels on the covers. Home keeps the captions underneath.
+Selected Work uses 4:5 frames for the three individual portraits. The family photograph finishes both selections in its original proportions. On Portfolio, a Landscapes cover immediately precedes Families and opens the photographer’s visible landscape photographs in their original proportions. Work keeps its collection labels on the covers. Home keeps the captions underneath.
 
-Work shows four collections above the published wall. Portraits, On location, Families and Social content use Alwin’s photography. The On location collection draws from individually reviewed frames of the published wall and its cover. Family and Social can feature the published session photographs when the wall lacks a matching tag. An edit with one photograph displays that one frame. The full gallery retains the original photographs’ proportions, curated order, native photo controls and mobile disclosure.
+Work shows five collections above the published wall. Portraits, On location, Social content, Landscapes and Families use Alwin’s photography. The On location collection draws from individually reviewed frames of the published wall and its cover. Family and Social can feature the published session photographs when the wall lacks a matching tag. An edit with one photograph displays that one frame. The full gallery retains the original photographs’ proportions, curated order, native photo controls and mobile disclosure.
 
 ## Motion
 

diff --git a/DESIGN.md b/DESIGN.md
@@ -2,6 +2,6 @@
 
 The 25 November 2026 desktop, mobile and brand boards guide the five public pages. Playfair Display headings and Montserrat text sit on a white page with fine rules, square buttons and a single tapered ink underline beneath “keeping.” The desktop Home pairs “Portraits worth keeping.” with a wider portrait and six manually controlled frames. The frame counter, progress line and arrows sit under the picture. On phones the headline precedes the photograph, arrows, introduction and booking button.
 
-Every photograph comes from the Shutterhaus collection. The Home cover is Alwin’s windblown outdoor portrait. Home and Work present their four selections in 4:5 portrait frames, two across on phones and four across on desktop. Three portraits fill the frames. The landscape family photograph sits on a light grey mount so all six people are visible. Home’s captions and Work’s covers link to Portraits, On location, Families and Social content. Alwin shoots on location. Visitors can still enquire about couples photography.
+Every photograph comes from the Shutterhaus collection. The Home cover is Alwin’s windblown outdoor portrait. Selected Work opens with three 4:5 portraits. The family group closes the homepage at its original landscape ratio. On Work, the Landscapes collection precedes Families. Both use the full photograph edge to edge. Alwin shoots on location. Visitors can still enquire about couples photography.
 
 The Home screenshots in this directory and in `src/` are full-page captures from 27 November 2026. [Desktop Home](SCREENSHOT.png) uses a 1440 × 900 viewport and [mobile Home](SCREENSHOT-MOBILE.png) uses 390 × 844. The 26 November Sessions captures show the package comparison and phone picker. See [the source design notes](src/DESIGN.md) for responsive behavior.

diff --git a/PROJECT.md b/PROJECT.md
@@ -12,7 +12,7 @@ intact during visual maintenance. Generate HTML through `tools/build-pages.py`.
 Run `npm ci`, `npm run build`, and `npm test`. `npm run dev` starts development;
 `npm run preview` serves the production build. The README lists the browser checks.
 
-The current reference is the 25 November 2026 Shutterhaus desktop, mobile and brand kit. Home uses one hand-drawn underline and a six-photograph carousel with a short, manual dissolve, Work offers Portraits, On location, Families and Social content, and Contact puts the form first on phones. Use only the photographer’s own photographs. Visual evidence lives at the root and in `src/`. Keep the sole `main` branch and the gated GitHub Pages deployment.
+The current reference is the 25 November 2026 Shutterhaus desktop, mobile and brand kit. Home uses one hand-drawn underline and a six-photograph carousel with a short, manual dissolve, Work offers Portraits, On location, Social content, Landscapes and Families, and Contact puts the form first on phones. Use only the photographer’s own photographs. Visual evidence lives at the root and in `src/`. Keep the sole `main` branch and the gated GitHub Pages deployment.
 
 ## Earlier releases
 

diff --git a/README.md b/README.md
@@ -18,7 +18,7 @@ Branch recovery tags are recorded in [docs/BRANCH_CONSOLIDATION.md](docs/BRANCH_
 The current desktop, mobile and brand boards use Playfair Display, Montserrat,
 white pages, fine rules and one ink underline beneath the Home headline. Home opens with “Portraits worth
 keeping.” The six manual frames dissolve after loading and follow the visitor’s reduced-motion preference. Work groups the photographer’s originals into Portraits, On location,
-Families and Social content. [Design notes and screenshots](DESIGN.md).
+Social content, Landscapes and Families. [Design notes and screenshots](DESIGN.md).
 
 ## Run locally
 
